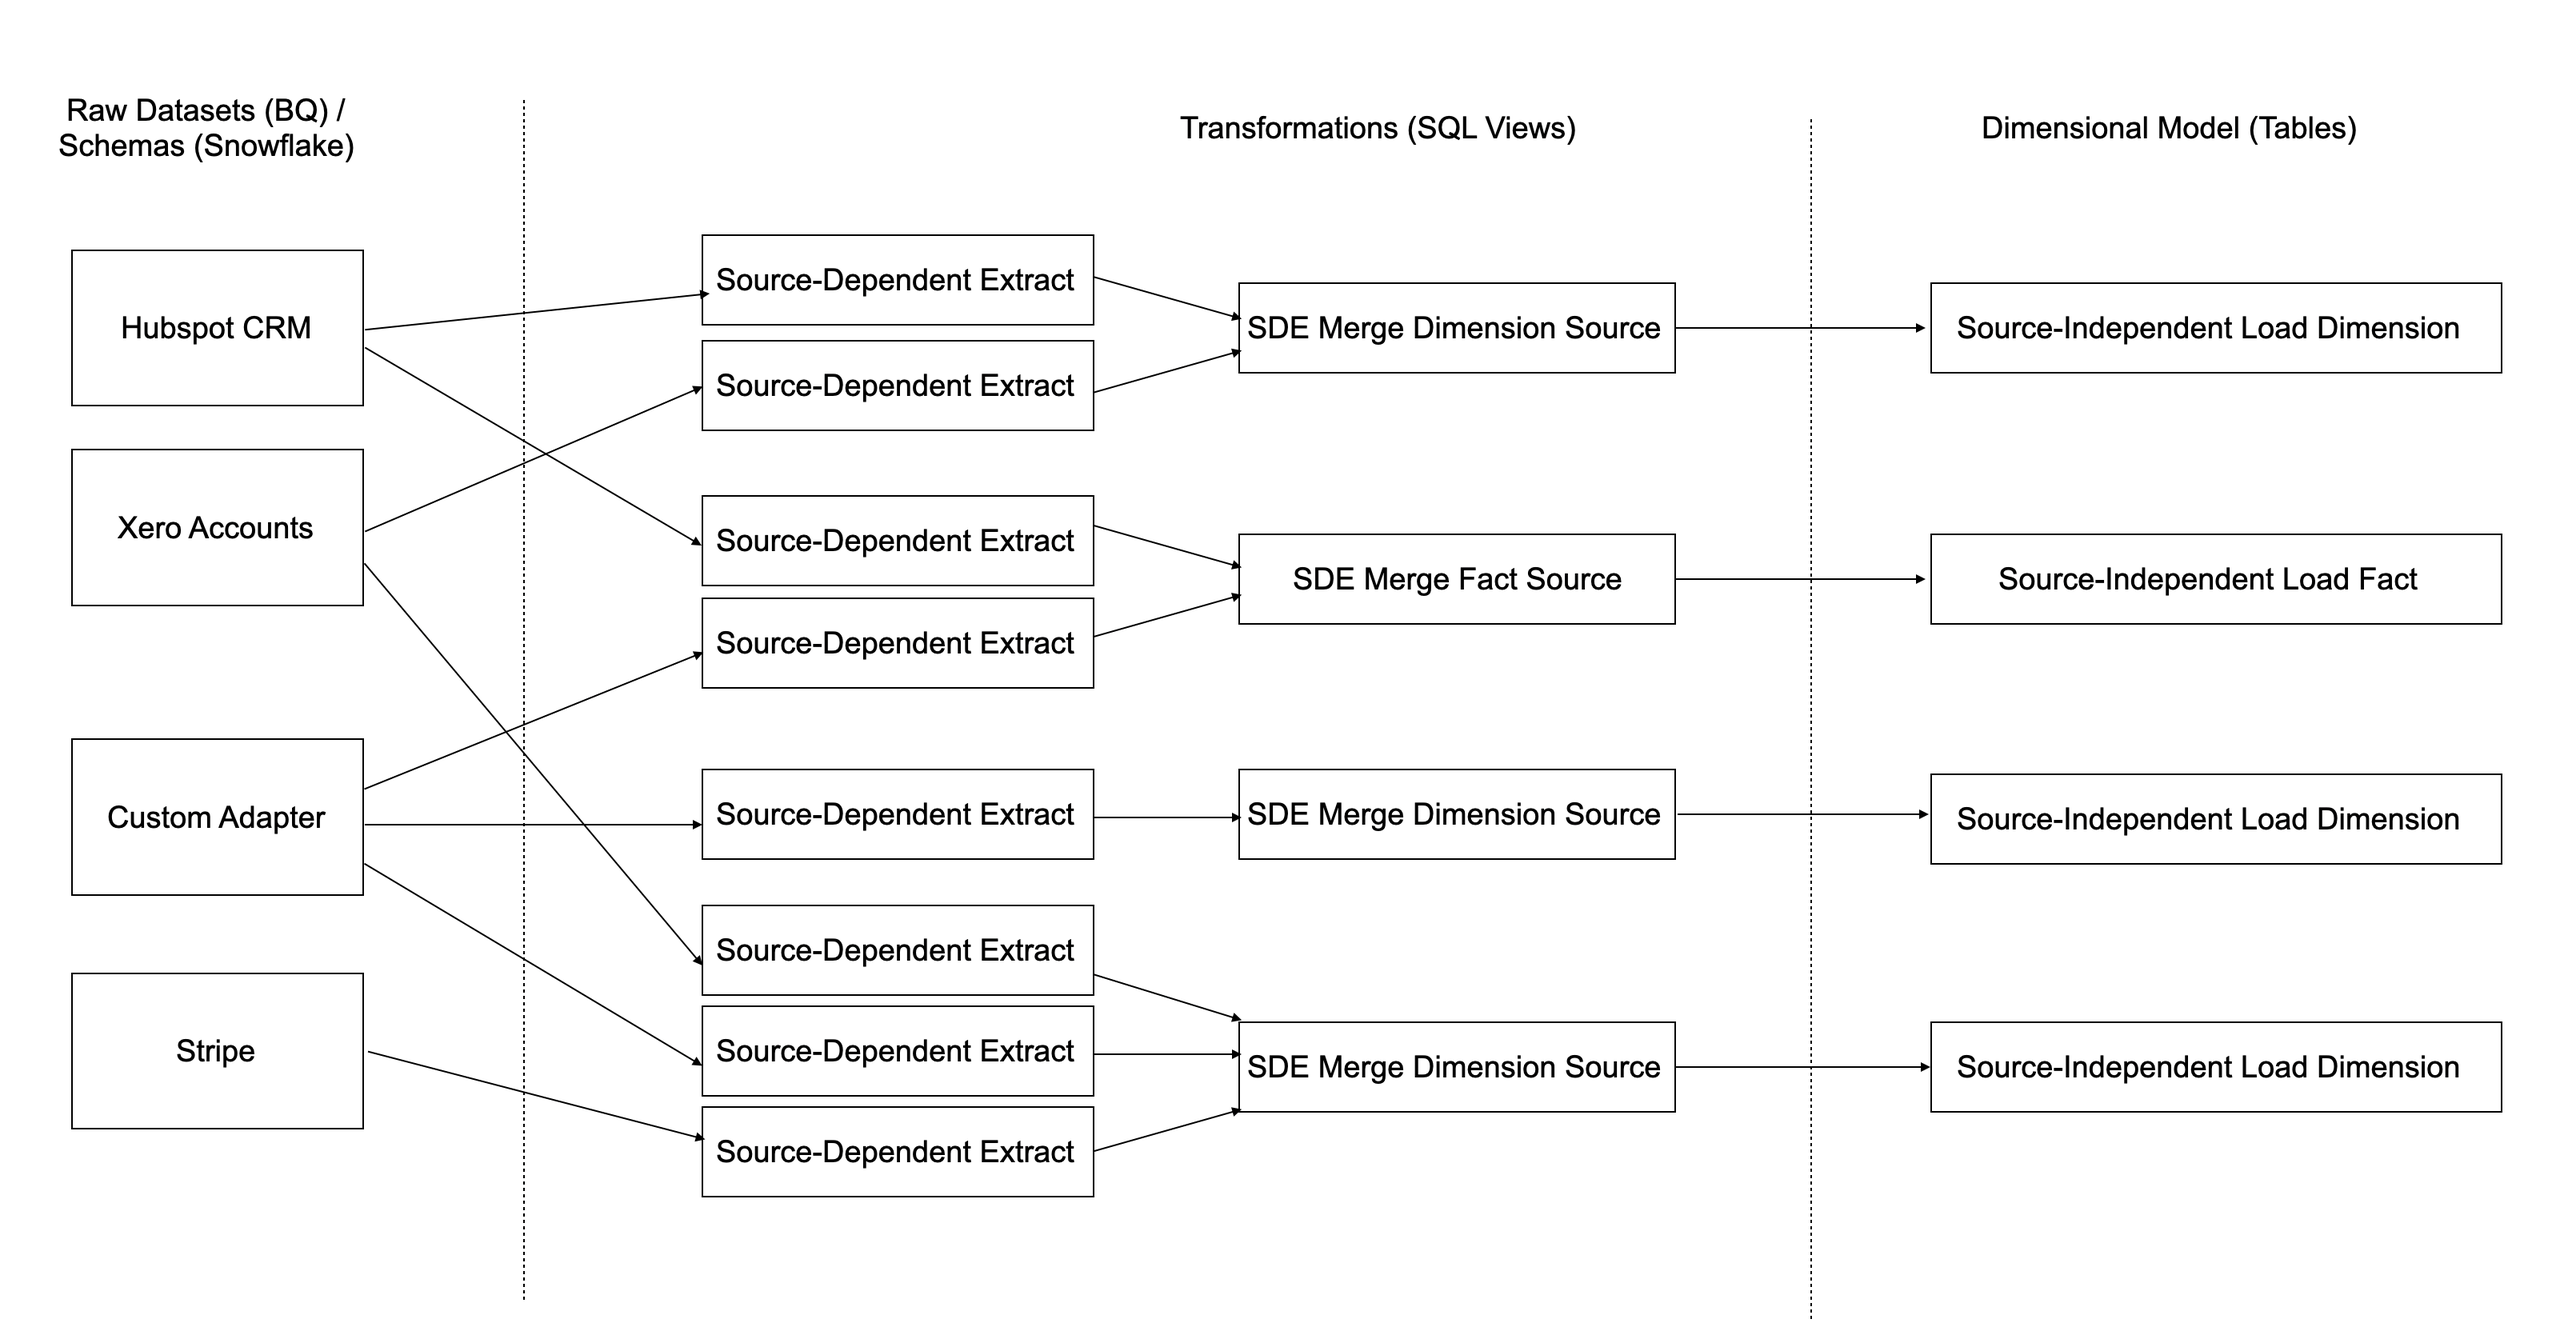
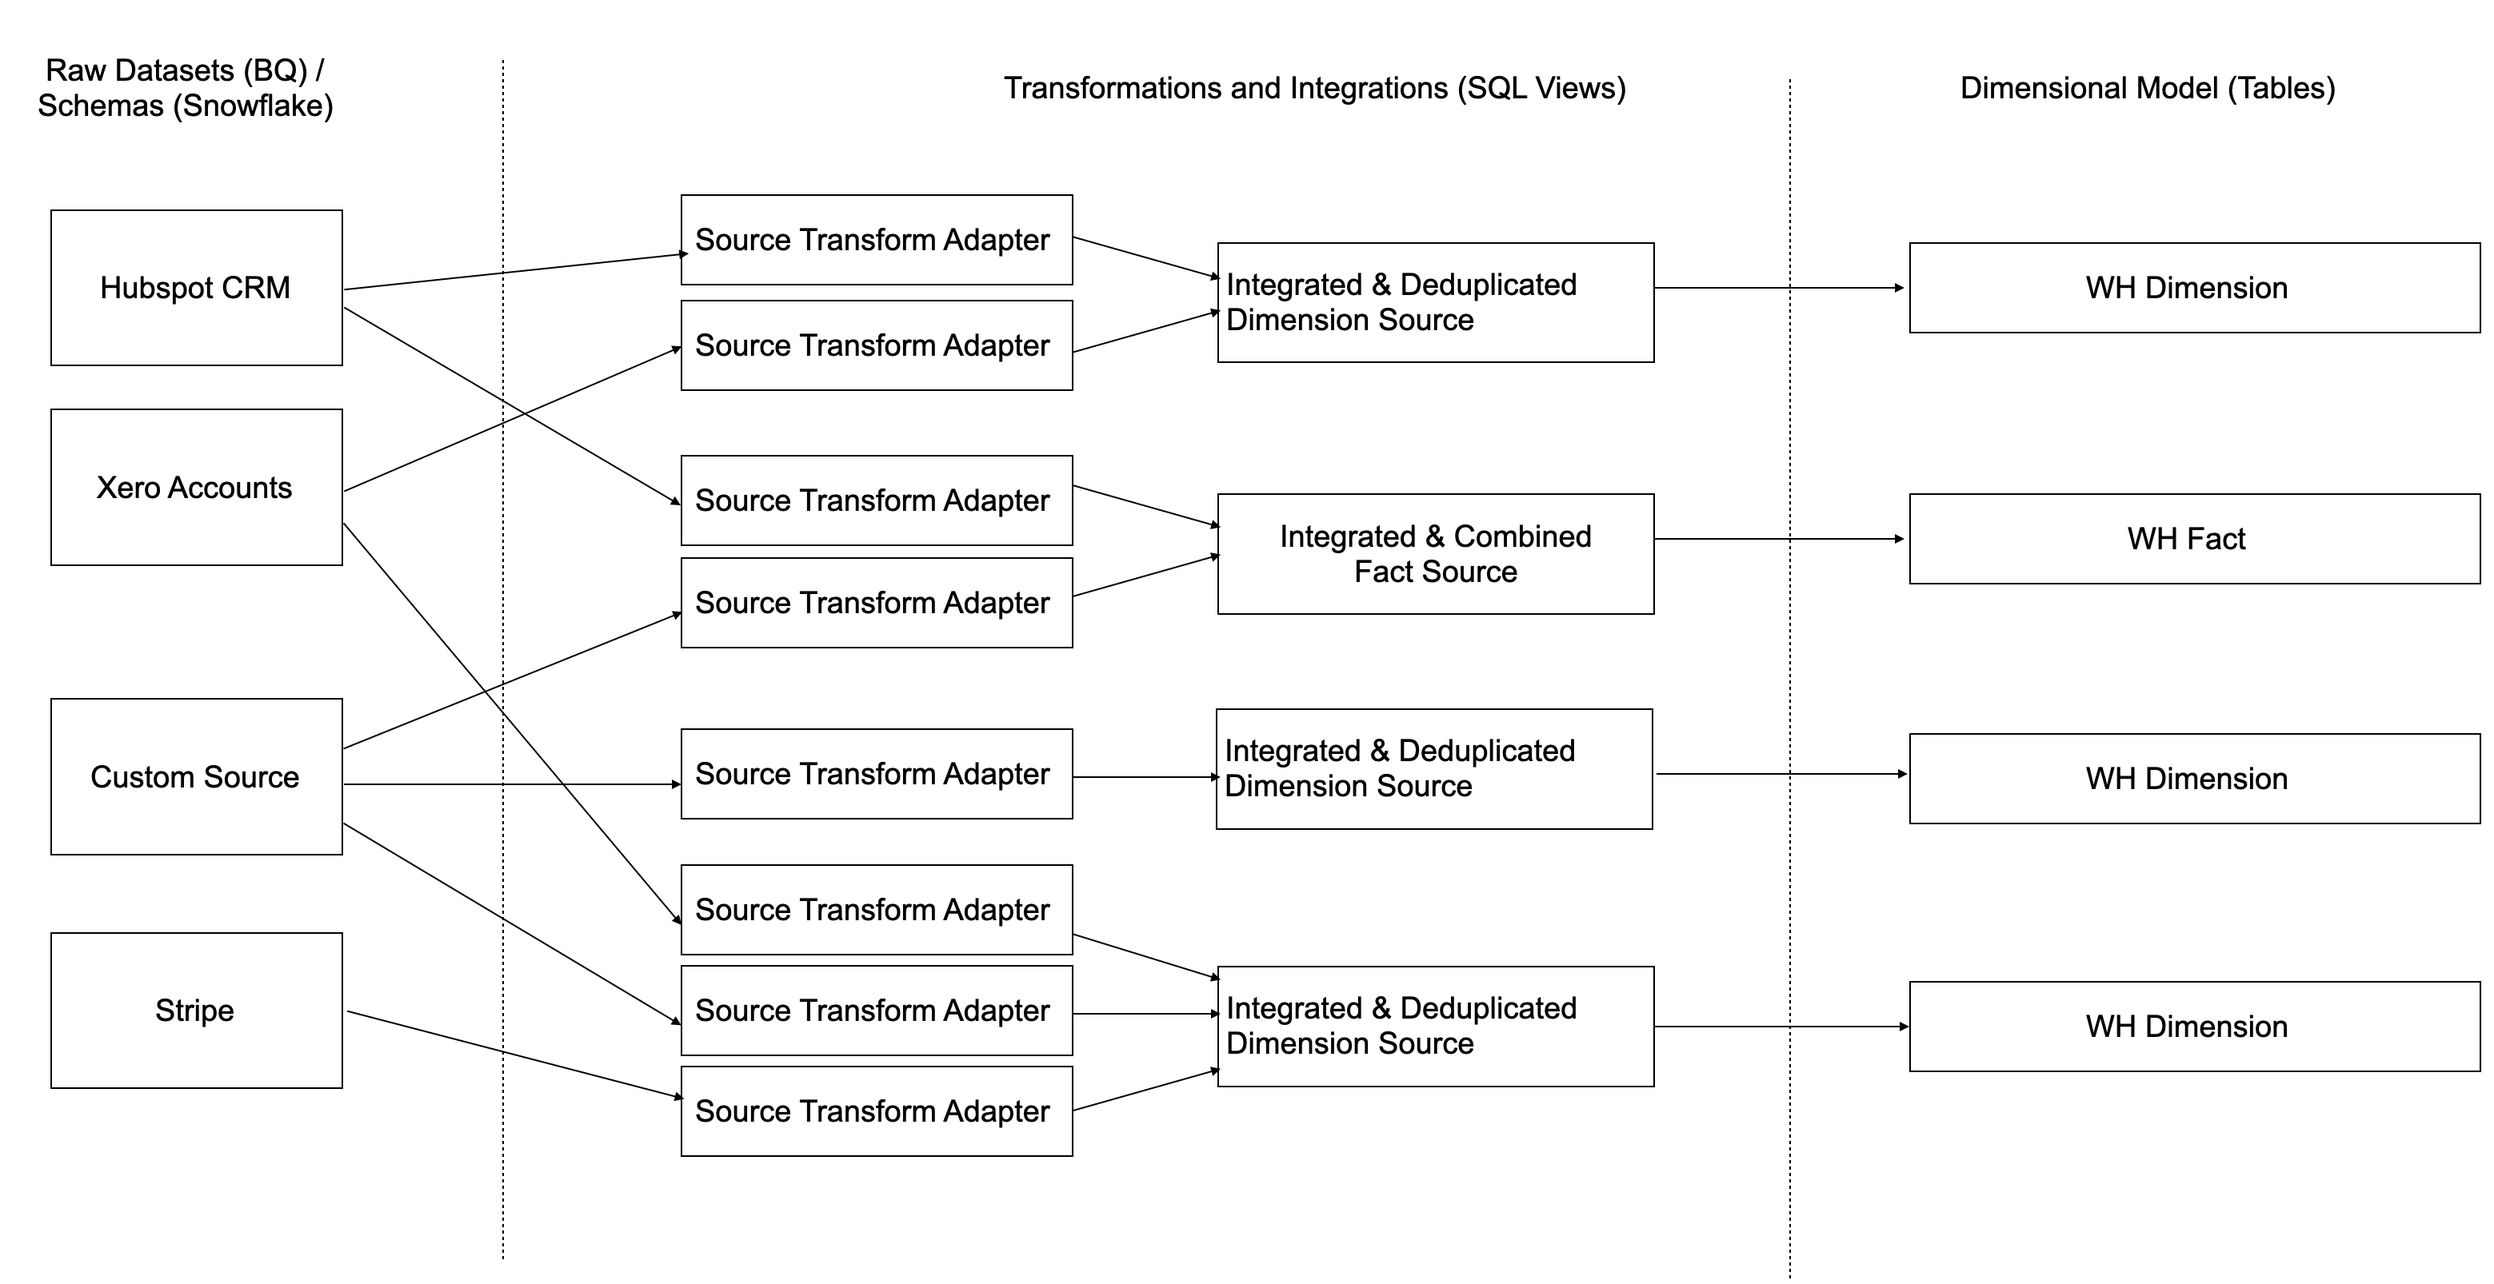
final rename

diff --git a/README.md b/README.md
@@ -44,9 +44,9 @@ vars:
     enable_projects_warehouse:           true
     enable_marketing_warehouse:          true
 ```
-#### Split between Source-Dependent data extract, transform and merge models, and Source-Independent warehouse load models
+#### Split between Source Extract and Transform, Integrate and Deduplicate and Warehouse Load Models
 
-![SDE and SIL ](https://github.com/rittmananalytics/ra_bi_apps/raw/master/ra_biapps/img/t_wh_diagram.png)
+![STA, INT and WH ](https://github.com/rittmananalytics/ra_bi_apps/raw/master/ra_biapps/img/t_wh_diagram.png)
 
 #### All transformation models and seed files deployed in separate datasets to main dimensional model tables
 
